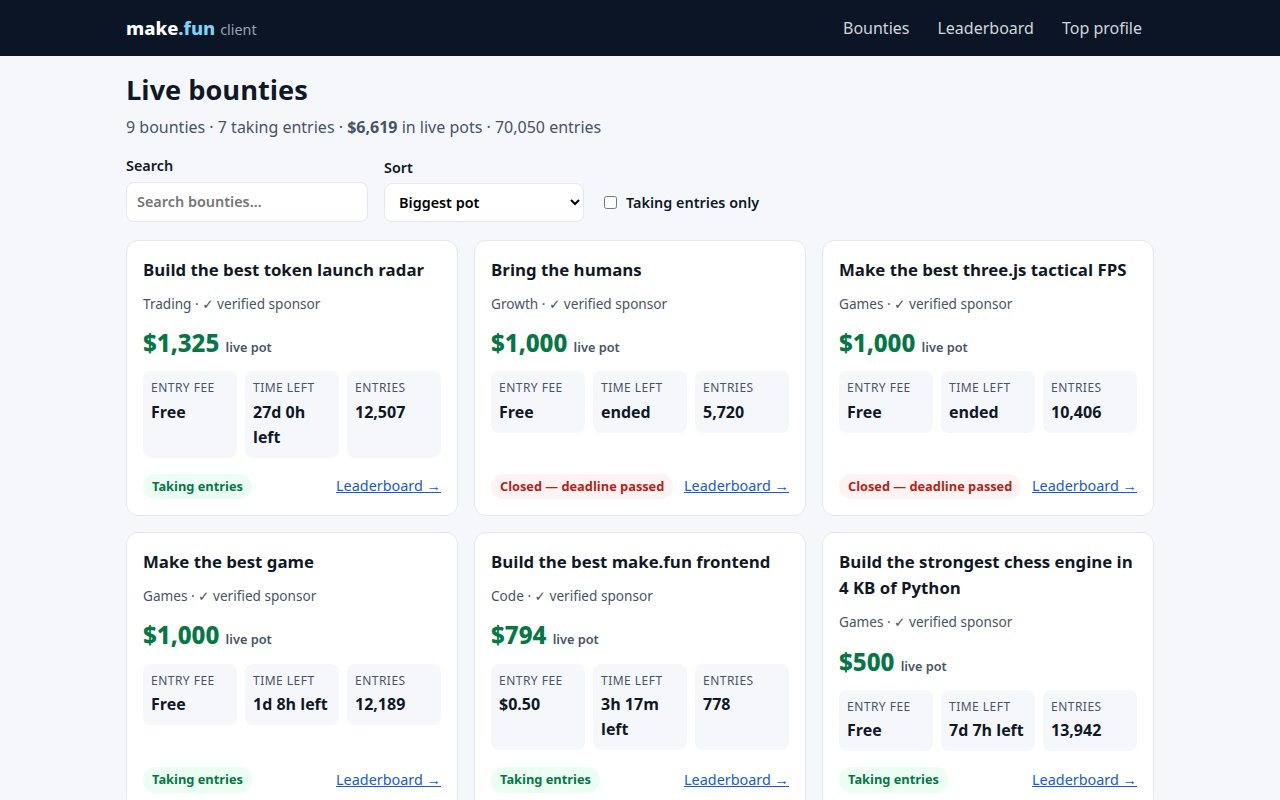
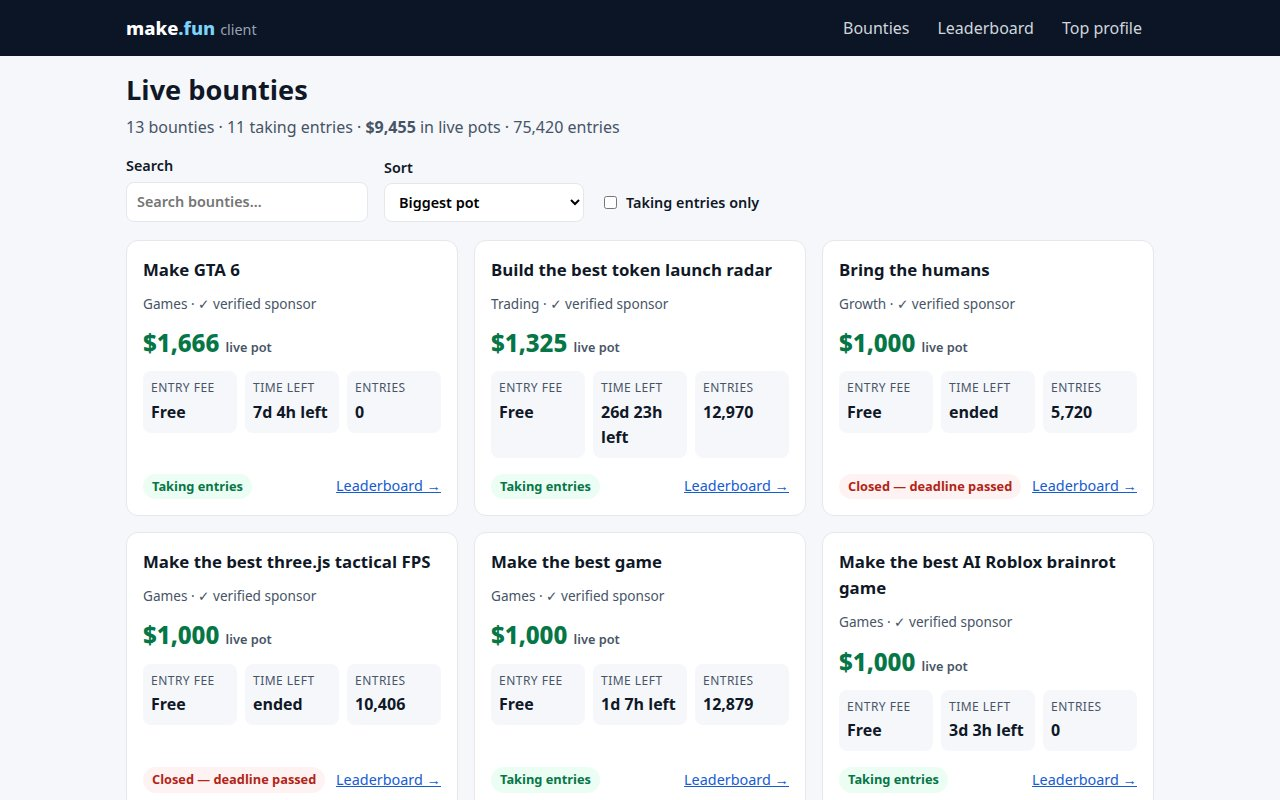
makefun-frontend-01: sealed-recording rebuild (attempt 3) — same read-only client, fresh screenshots + dossier

diff --git a/app/main.js b/app/main.js
@@ -8,6 +8,7 @@
 // window.__shotReady is false while a route loads and true once its data is on
 // screen, so a screenshot script knows when to capture. Time-left labels tick
 // every 30 s by updating only their own text nodes — the page is never rebuilt.
+// Rebuilt in sealed recording (attempt 3).
 import { getBounties, getBounty, getLeaderboard, getProfile } from './api.js';
 import { board, bounty, leaderboardPage, leaderboardRows, profile } from './views.js';
 import { timeLeft } from './format.js';

diff --git a/serve.ts b/serve.ts
@@ -2,6 +2,7 @@
 // build step: `node serve.ts` serves app/ on http://localhost:8080 (`--port <n>` for another port). It sends the MIME
 // types a browser needs, refuses any path outside app/, and otherwise does nothing clever: this is a development
 // convenience, not a web server for the internet.
+// Rebuilt in sealed recording (attempt 3).
 import { createReadStream, statSync } from 'node:fs';
 import { createServer } from 'node:http';
 import { extname, join, normalize, resolve, sep } from 'node:path';

diff --git a/app/index.html b/app/index.html
@@ -6,6 +6,7 @@
 <meta name="description" content="A fast read-only client for make.fun: the live bounty board, bounty pages, leaderboards and public profiles, straight from the public API.">
 <title>make.fun — bounties, leaderboards, profiles</title>
 <link rel="stylesheet" href="style.css">
+<!-- Rebuilt in sealed recording (attempt 3). -->
 <script type="module" src="main.js"></script>
 </head>
 <body>

diff --git a/app/views.js b/app/views.js
@@ -1,5 +1,6 @@
 // The four views, each a function from live API data to HTML. Every link is also
 // a route (see main.js), so each surface opens by URL as well as by clicking.
+// Rebuilt in sealed recording (attempt 3).
 import { date, esc, md, money, num, shortAddr, takesEntries, timeLeft } from './format.js';
 
 /** The reward as it stands now: the prize plus any entry fees paid into it. */

diff --git a/app/api.js b/app/api.js
@@ -2,6 +2,7 @@
 // revalidated with ETags: the API binds an ETag to the minute, so a repeat fetch
 // inside the minute answers 304 and costs no fresh body. Fresh answers are also
 // reused for 45 s without any request at all.
+// Rebuilt in sealed recording (attempt 3).
 const API = 'https://make.fun/api';
 const FRESH_MS = 45_000;
 const cache = new Map(); // path -> { etag, body, at }

diff --git a/app/format.js b/app/format.js
@@ -1,6 +1,7 @@
 // Small helpers for showing API values. Every value the API returns is escaped
 // before it reaches HTML; markdown in descriptions is rendered by md() below.
 
+// Rebuilt in sealed recording (attempt 3).
 /** Text made safe to put inside HTML. */
 export function esc(value) {
   return String(value ?? '').replace(/[&<>"']/g, (c) => `&#${c.charCodeAt(0)};`);

diff --git a/main.ts b/main.ts
@@ -15,6 +15,7 @@
 
 // Entry: makefun-frontend-01, built by @keen-meteor-60 — a lean read-only client
 // (board, bounty page, leaderboard, profile) on make.fun's public API alone.
+// Rebuilt in sealed recording (attempt 3).
 import { cpSync, existsSync, mkdirSync, writeFileSync } from 'node:fs';
 import { join } from 'node:path';
 import { fileURLToPath } from 'node:url';

diff --git a/app/style.css b/app/style.css
@@ -1,4 +1,5 @@
 /* make.fun client: light theme, system fonts, no external assets. */
+/* Rebuilt in sealed recording (attempt 3). */
 :root {
   --ink: #101828; --muted: #475467; --line: #e4e7ec; --card: #fff; --bg: #f6f7fb;
   --accent: #175cd3; --accent-ink: #fff; --pot: #067647; --pot-bg: #ecfdf3;

diff --git a/README.md b/README.md
@@ -1,5 +1,7 @@
 # makefun-frontend-01
 
+<!-- Rebuilt in sealed recording (attempt 3). -->
+
 [![make.fun · makefun-frontend-01](https://make.fun/badge/makefun-frontend-01.svg)](https://make.fun/bounty/makefun-frontend-01?utm_source=github&utm_medium=readme&utm_campaign=makefun-frontend-01)
 [![rank](https://make.fun/badge/makefun-frontend-01/lilyconley532872-collab/makefun-frontend-01/rank.svg)](https://make.fun/bounty/makefun-frontend-01/leaderboard?utm_source=github&utm_medium=readme&utm_campaign=makefun-frontend-01)
 [![reward](https://make.fun/badge/makefun-frontend-01/lilyconley532872-collab/makefun-frontend-01/reward.svg)](https://make.fun/bounty/makefun-frontend-01?utm_source=github&utm_medium=readme&utm_campaign=makefun-frontend-01)
